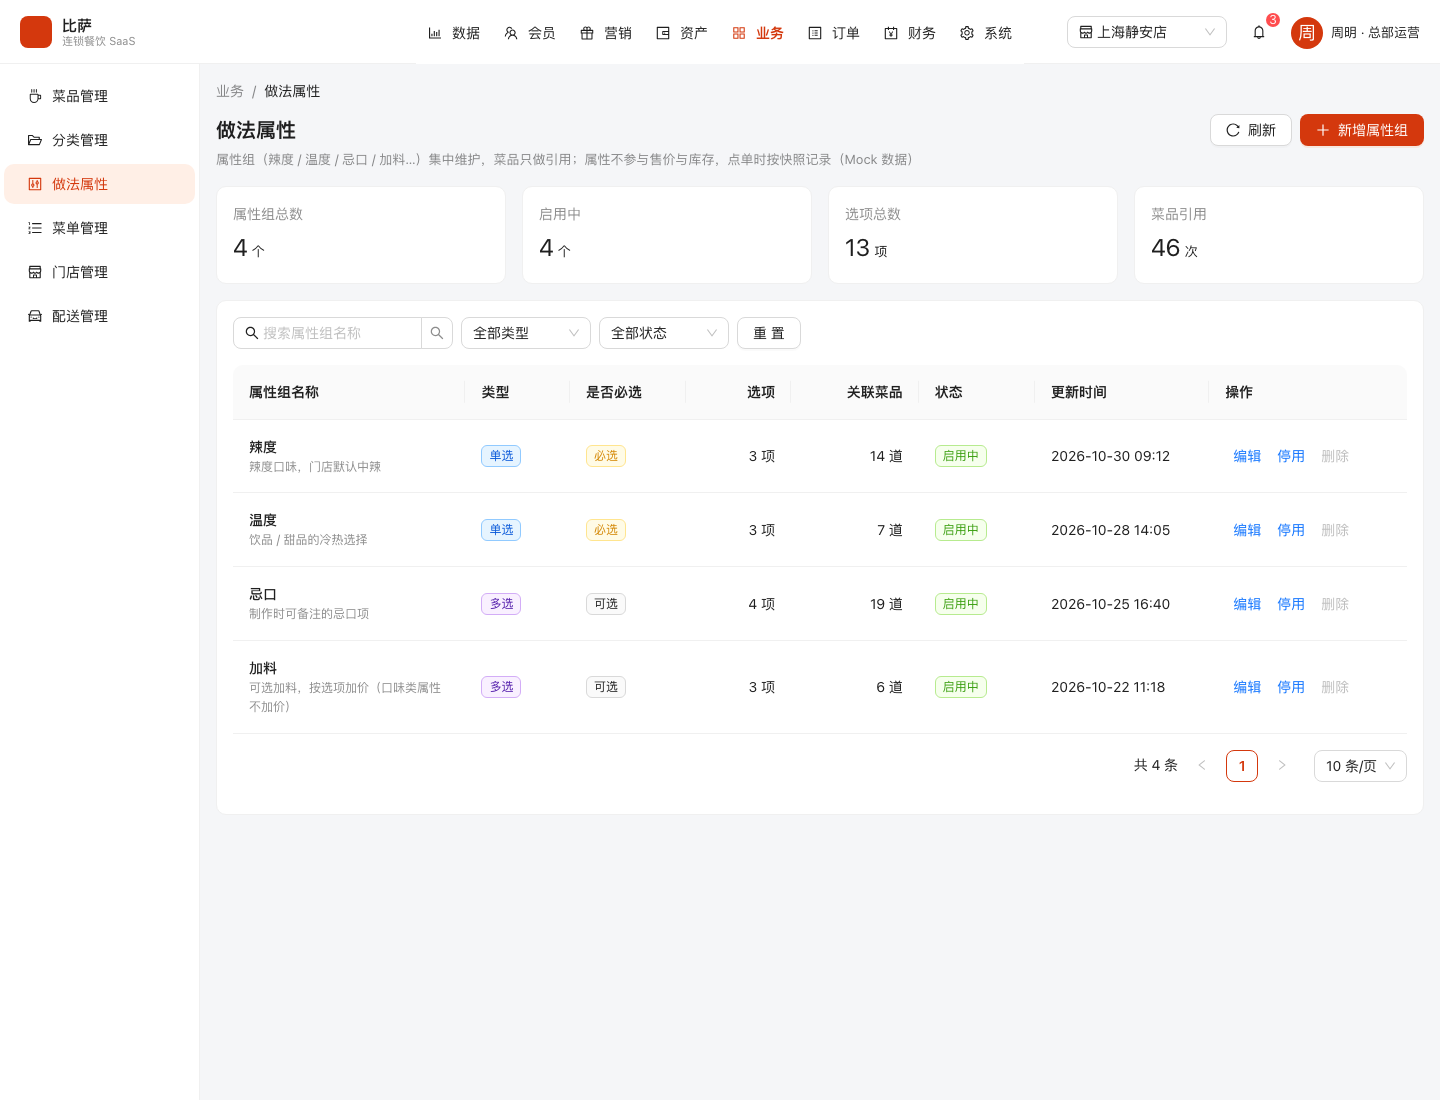
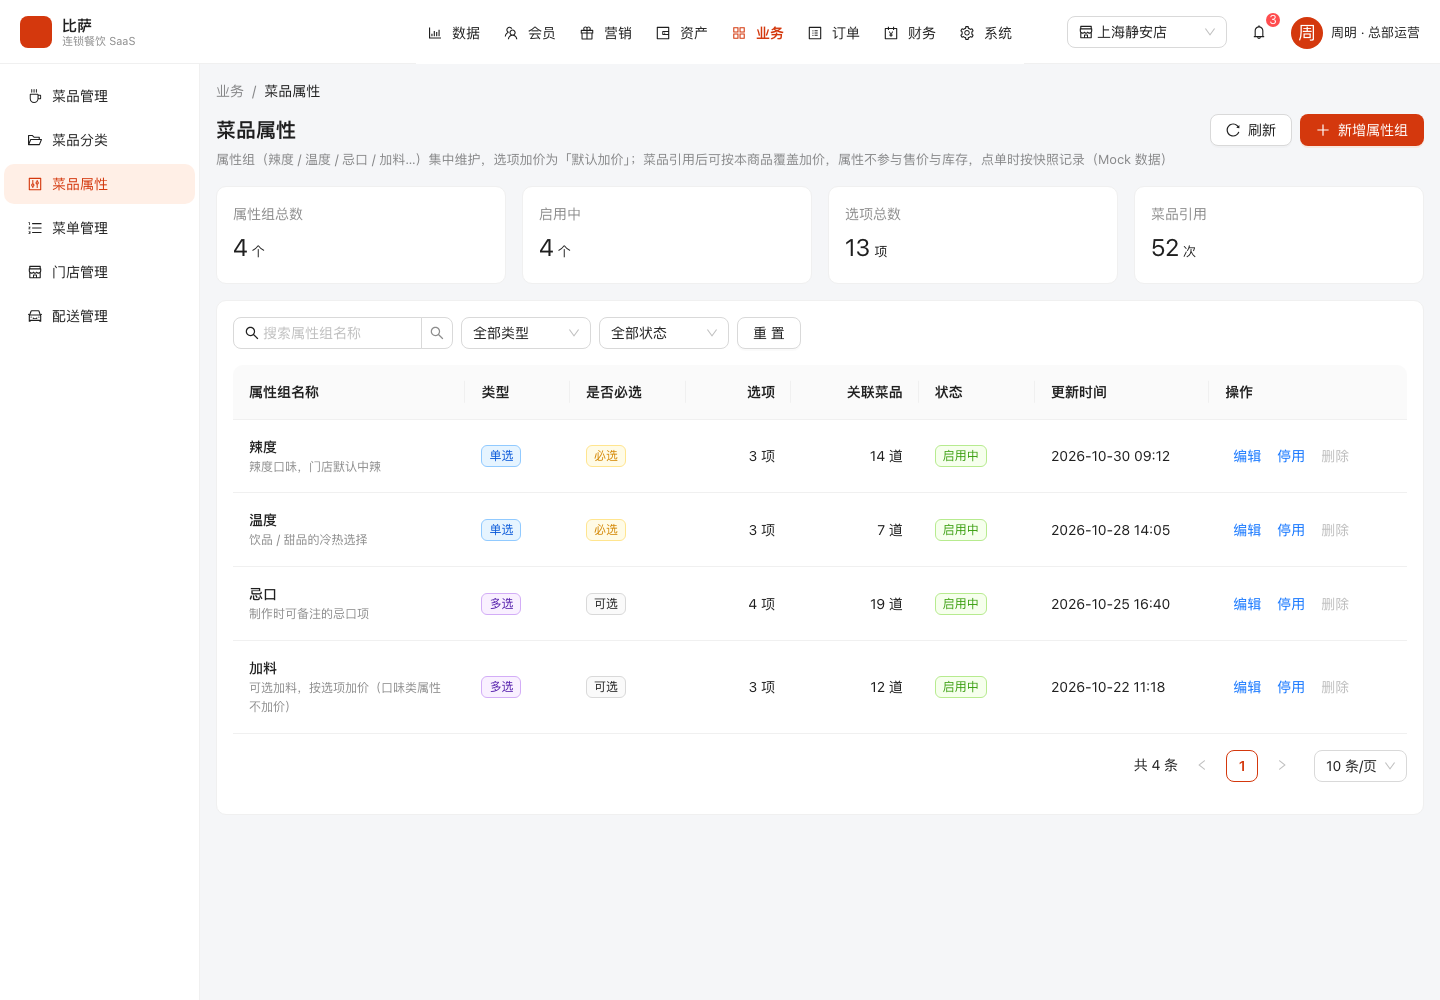
refactor: 业务菜单文案调整，「分类管理」→「菜品分类」、「做法属性」→「菜品属性」
- 导航与页面标题同步改名；面包屑、页面内引用文案、Mock/Service 注释一并更新
- README / PLAN / 06-dish.md 中的页面名引用同步（路由路径保持不变，避免破坏链接）
- 重新生成受侧栏影响的截图：business-stores / business-categories(-create) /
  business-attributes(-drawer) / dishes / dishes-drawer / dishes-offline-confirm
- 验证：tsc + vite build 通过、25/25 路由无头渲染正常

diff --git a/src/pages/Dishes/index.tsx b/src/pages/Dishes/index.tsx
@@ -642,12 +642,12 @@ export default function DishesPage() {
 
           <Form.Item
             label="口味 / 做法"
-            extra="在「业务 · 做法属性」统一维护；勾选后可按本商品覆盖选项加价（留空继承属性组默认价），点单时按订单快照记录，不参与售价与库存"
+            extra="在「业务 · 菜品属性」统一维护；勾选后可按本商品覆盖选项加价（留空继承属性组默认价），点单时按订单快照记录，不参与售价与库存"
             style={{ marginTop: 16 }}
           >
             {attributeGroups.length === 0 ? (
               <span style={{ color: 'var(--text-secondary)', fontSize: 13 }}>
-                还没有启用中的属性组，去「业务 · 做法属性」创建
+                还没有启用中的属性组，去「业务 · 菜品属性」创建
               </span>
             ) : (
               <Space direction="vertical" size={10} style={{ width: '100%' }}>

diff --git a/src/pages/Business/Attributes/index.tsx b/src/pages/Business/Attributes/index.tsx
@@ -61,7 +61,7 @@ interface AttributeFormValues {
   options: AttributeOptionFormValues[];
 }
 
-/** 做法属性：属性组（辣度 / 温度 / 忌口 / 加料…）的集中维护，菜品只做引用。 */
+/** 菜品属性：做法 / 口味属性组（辣度 / 温度 / 忌口 / 加料…）的集中维护，菜品只做引用。 */
 export default function AttributesPage() {
   const { message } = App.useApp();
   const [form] = Form.useForm<AttributeFormValues>();
@@ -295,7 +295,7 @@ export default function AttributesPage() {
     <div className="page">
       <div className="page-header">
         <div>
-          <h2>做法属性</h2>
+          <h2>菜品属性</h2>
           <p>
             属性组（辣度 / 温度 / 忌口 / 加料…）集中维护，选项加价为「默认加价」；菜品引用后可按本商品覆盖加价，属性不参与售价与库存，点单时按快照记录（Mock 数据）
           </p>

diff --git a/src/pages/Business/Categories/index.tsx b/src/pages/Business/Categories/index.tsx
@@ -48,7 +48,7 @@ interface CategoryFormValues {
   remark?: string;
 }
 
-/** 分类管理：菜品分类的新增、编辑、启停与删除（业务模块）。 */
+/** 菜品分类：分类的新增、编辑、启停与删除（业务模块）。 */
 export default function CategoriesPage() {
   const { message } = App.useApp();
   const [form] = Form.useForm<CategoryFormValues>();
@@ -256,7 +256,7 @@ export default function CategoriesPage() {
     <div className="page">
       <div className="page-header">
         <div>
-          <h2>分类管理</h2>
+          <h2>菜品分类</h2>
           <p>共 {data.total} 个菜品分类，支持按名称 / 编码 / 状态筛选；分类改名会同步更新菜品归属（Mock 数据）</p>
         </div>
         <Space>

diff --git a/src/services/dish.ts b/src/services/dish.ts
@@ -46,7 +46,7 @@ export async function fetchNextDishCode(): Promise<string> {
 
 export async function fetchCategories(): Promise<string[]> {
   await sleep(80);
-  // 与「业务 · 分类管理」保持一致：只返回启用中的分类（默认顺序即分类排序）
+  // 与「业务 · 菜品分类」保持一致：只返回启用中的分类（默认顺序即分类排序）
   const names = enabledCategoryNames();
   // 兼容历史数据：菜品上存在但分类表里没有的名称也一并返回，避免筛选漏项
   const extra = [...new Set(dishes.map((dish) => dish.category))].filter(

diff --git a/src/config/nav.tsx b/src/config/nav.tsx
@@ -161,13 +161,13 @@ export const modules: NavModule[] = [
       { path: '/business/dishes', label: '菜品管理', icon: <CoffeeOutlined />, component: DishesPage },
       {
         path: '/business/categories',
-        label: '分类管理',
+        label: '菜品分类',
         icon: <FolderOpenOutlined />,
         component: CategoriesPage,
       },
       {
         path: '/business/attributes',
-        label: '做法属性',
+        label: '菜品属性',
         icon: <ControlOutlined />,
         component: AttributesPage,
       },

diff --git a/src/mock/categories.ts b/src/mock/categories.ts
@@ -2,8 +2,8 @@ import { dishes } from './db';
 import { pad } from './util';
 
 /**
- * 业务 · 分类管理 Mock 数据（菜品分类）。
- * 分类名称直接取自现有菜品数据，保证「分类管理」与「菜品管理」口径一致；
+ * 业务 · 菜品分类 Mock 数据。
+ * 分类名称直接取自现有菜品数据，保证「菜品分类」与「菜品管理」口径一致；
  * 新增 / 编辑 / 停用 / 删除只改内存，刷新页面恢复初始数据。
  */
 

diff --git a/src/mock/attributes.ts b/src/mock/attributes.ts
@@ -7,8 +7,8 @@ import type {
 } from '../types';
 
 /**
- * 业务 · 做法属性 Mock 数据。
- * 属性组是可复用的基础数据：菜品（SPU）只引用属性组，「做法属性」页面统一维护。
+ * 业务 · 菜品属性 Mock 数据。
+ * 属性组是可复用的基础数据：菜品（SPU）只引用属性组，「菜品属性」页面统一维护。
  * 属性组不参与售价与库存，下单时按订单快照记录，不会生成 SKU。
  */
 

diff --git a/README.md b/README.md
@@ -38,7 +38,7 @@ src/
 │   ├── MemberTags/       # 标签管理
 │   ├── Marketing/        # 满减 / 满折 / 发券 / 自动化营销 / 消息通知
 │   ├── Assets/           # 卡券 / 积分 / 券包
-│   ├── Business/         # 菜品分类 / 做法属性 / 菜单 / 门店 / 配送
+│   ├── Business/         # 菜品分类 / 菜品属性 / 菜单 / 门店 / 配送
 │   ├── Finance/          # 交易流水 / 对账单
 │   ├── Dishes/           # 菜品管理
 │   ├── Orders/           # 订单查询
@@ -62,7 +62,7 @@ src/
 | 会员 | 会员信息（手机号/会员号查询）、等级配置（消费金额/频次升降级规则）、标签管理（ClickHouse 人群价值/行为/人口属性，手动+自动更新） |
 | 营销 | 满减活动、满折活动、发券活动、自动化营销（活动+人群标签+时间+渠道+通知方式）、消息通知 |
 | 资产 | 卡券管理、积分管理（规则/流水 Tab）、券包管理 |
-| 业务 | 菜品管理、分类管理、做法属性、菜单管理、门店管理、配送管理 |
+| 业务 | 菜品管理、菜品分类、菜品属性、菜单管理、门店管理、配送管理 |
 | 订单 | 订单查询、售后处理 |
 | 财务 | 交易流水、对账单（按月 × 门店，可下钻商品明细） |
 | 系统 | 岗位管理、人员管理、系统日志 |
@@ -104,9 +104,9 @@ src/
 11. 券包管理：券包组合、包含券、有效期、发行量。
 
 **业务**
-12. 菜品管理：**SPU + SKU 模型**（一个菜品可配多个规格，每个规格独立售价与库存，列表展示售价区间与库存合计）、商品编码、商品图（最多 6 张）、做法属性引用（可按本商品覆盖选项加价）、搜索名称 / 编码 / 分类 / 状态、库存 `-1` 表示无限库存（列表显示「不限」）、缺货与低库存预警、上下架开关（下架二次确认：不影响已生成订单、用户无法购买）、新增/编辑抽屉、删除。
-13. 分类管理：分类名称 / 编码 / 排序 / 状态 / 关联菜品数，新增、编辑（改名自动同步菜品归属）、启停、删除（分类下有菜品时禁止删除）；菜品表单的分类下拉与分类管理联动。
-14. 做法属性：属性组（辣度 / 温度 / 忌口 / 加料）集中维护——单选 / 多选、是否必选、默认项、选项**默认加价**；商品引用属性组时可对选项**重新设置加价**（A 商品 +3 元、B 商品 0 元），**不设置则取默认值**，显式设 0 表示本商品免费；被菜品引用后点单时选择，属性不参与售价与库存，按订单快照记录；支持增改、启停、删除（被菜品引用时禁止删除）。
+12. 菜品管理：**SPU + SKU 模型**（一个菜品可配多个规格，每个规格独立售价与库存，列表展示售价区间与库存合计）、商品编码、商品图（最多 6 张）、菜品属性引用（可按本商品覆盖选项加价）、搜索名称 / 编码 / 分类 / 状态、库存 `-1` 表示无限库存（列表显示「不限」）、缺货与低库存预警、上下架开关（下架二次确认：不影响已生成订单、用户无法购买）、新增/编辑抽屉、删除。
+13. 菜品分类：分类名称 / 编码 / 排序 / 状态 / 关联菜品数，新增、编辑（改名自动同步菜品归属）、启停、删除（分类下有菜品时禁止删除）；菜品表单的分类下拉与菜品分类联动。
+14. 菜品属性：做法 / 口味属性组（辣度 / 温度 / 忌口 / 加料）集中维护——单选 / 多选、是否必选、默认项、选项**默认加价**；商品引用属性组时可对选项**重新设置加价**（A 商品 +3 元、B 商品 0 元），**不设置则取默认值**，显式设 0 表示本商品免费；被菜品引用后点单时选择，属性不参与售价与库存，按订单快照记录；支持增改、启停、删除（被菜品引用时禁止删除）。
 15. 菜单管理：菜单名称、所属门店、菜品数量、生效时段；详情抽屉展示菜品清单。
 16. 门店管理：门店编号/城市/地址/店长/营业时间/营业状态、增改删。
 17. 配送管理：配送范围/起送价/配送费/预计时长 + 配送概览统计。
@@ -126,7 +126,7 @@ src/
 
 ## 团队协作
 
-25 个页面由 Lead + 4 个智能体队员并行完成：营销 5 页、资产 3 页、业务 3 页、售后+系统 4 页各自独立目录与 Mock/Service 层；后加的财务 2 页（交易流水、对账单）、业务·分类管理、业务·做法属性和菜品 SPU/SKU 改造由 Lead 直接实现。Lead 负责数据/会员/财务模块、导航与公共约定、集成与验收（`tsc`、`vite build`、路由无头渲染检查、截图）。
+25 个页面由 Lead + 4 个智能体队员并行完成：营销 5 页、资产 3 页、业务 3 页、售后+系统 4 页各自独立目录与 Mock/Service 层；后加的财务 2 页（交易流水、对账单）、业务·菜品分类、业务·菜品属性和菜品 SPU/SKU 改造由 Lead 直接实现。Lead 负责数据/会员/财务模块、导航与公共约定、集成与验收（`tsc`、`vite build`、路由无头渲染检查、截图）。
 
 ## 接口契约文档（给后端）
 

diff --git a/docs/api/06-dish.md b/docs/api/06-dish.md
@@ -21,7 +21,7 @@
 
 **前端数据流**：`页面 → src/services/dish.ts → src/mock/db.ts` 的 `dishes` 内存数组。真实后端只需替换 service 层实现，页面无需改动。
 
-**本期未建模**（`Dish` 类型中不存在，不纳入本期契约）：门店级价格与上下架、点单时的属性选择快照、销量写入（`sales` 只读）。分类字典 CRUD 见「业务 · 分类管理」页面、做法属性组 CRUD 见「业务 · 做法属性」页面（两者接口契约待补）。
+**本期未建模**（`Dish` 类型中不存在，不纳入本期契约）：门店级价格与上下架、点单时的属性选择快照、销量写入（`sales` 只读）。分类字典 CRUD 见「业务 · 菜品分类」页面、做法属性组 CRUD 见「业务 · 菜品属性」页面（两者接口契约待补）。
 
 > 数据模型为 **SPU + SKU**：`Dish` 是 SPU（菜品），`skus` 是规格（SKU）；SPU 的 `price`（最低 SKU 价）与 `stock`（SKU 库存合计）由 SKU 汇总推导。
 > **库存特殊值**：`stock = -1` 表示**无限库存（不限量，随便买）**；SKU 与 SPU 都适用，只要任一 SKU 为 `-1`，SPU 的 `stock` 即为 `-1`。
@@ -50,7 +50,7 @@
 
 ### 3.2 菜品分类（`category`）
 
-`category` 为字符串（非固定枚举），选项来自「业务 · 分类管理」（仅启用中的分类，按分类排序值返回）。当前 Mock 共 8 个分类：
+`category` 为字符串（非固定枚举），选项来自「业务 · 菜品分类」（仅启用中的分类，按分类排序值返回）。当前 Mock 共 8 个分类：
 
 | 序号 | 分类 |
 | --- | --- |
@@ -63,7 +63,7 @@
 | 7 | 凉菜 |
 | 8 | 套餐 |
 
-> 后端须保证新增/编辑菜品时 `category` 存在于分类字典（分类管理）中；停用的分类不会出现在下拉选项里。
+> 后端须保证新增/编辑菜品时 `category` 存在于分类字典（菜品分类）中；停用的分类不会出现在下拉选项里。
 
 ### 3.3 Dish 字段字典
 
@@ -102,7 +102,7 @@
 
 ### 3.6 做法属性绑定与加价规则
 
-属性组由「业务 · 做法属性」统一维护。**属性选项在属性组里设置一个默认加价**（`extraPrice`，`0` 表示不加价），**商品关联属性组时允许重新设置本商品加价，不设置则取默认值**。
+属性组由「业务 · 菜品属性」统一维护。**属性选项在属性组里设置一个默认加价**（`extraPrice`，`0` 表示不加价），**商品关联属性组时允许重新设置本商品加价，不设置则取默认值**。
 
 **价格设置规则（重点）**
 
@@ -223,8 +223,8 @@
 ```
 
 - **业务规则**：
-  - 取「分类管理」中启用状态的分类，按排序值升序返回；停用分类不返回；
-  - 分类的新增 / 改名 / 停用由「业务 · 分类管理」维护（接口契约待补）；
+  - 取「菜品分类」中启用状态的分类，按排序值升序返回；停用分类不返回；
+  - 分类的新增 / 改名 / 停用由「业务 · 菜品分类」维护（接口契约待补）；
   - 选项不分页、不做门店过滤。
 - **错误**：`40100`；`50000`。
 
@@ -391,9 +391,9 @@
 | 库存 | 静态字段，下单不扣减；SPU 库存为 SKU 合计；`-1` 表示无限库存 | 需 SKU 级订单扣减 + 库存流水，缺货拦截下单；`-1`（不限量）不参与扣减 |
 | 规格（SKU） | Mock 内置 1~2 个 SKU（固定规则生成），无 SKU 级上下架 | 建议 SKU 级价格 / 库存 / 条码，可独立上下架 |
 | 商品图 | 内联 SVG 占位，dataURL 只存内存 | 对象存储 + CDN，接口返回 URL，限制 ≤ 6 张 |
-| 做法属性 | 属性组独立维护，菜品存绑定（可覆盖选项加价 / 隐藏选项）；未实现点单 | 点单时选择并按订单快照（groupName + labels + 实际加价），不生成 SKU、不扣库存 |
+| 菜品属性（做法 / 口味） | 属性组独立维护，菜品存绑定（可覆盖选项加价 / 隐藏选项）；未实现点单 | 点单时选择并按订单快照（groupName + labels + 实际加价），不生成 SKU、不扣库存 |
 | 商品编码 | 种子数据唯一，Mock 保存时校验重复 | 全局唯一索引，支持商家自定义编码 |
-| 分类 | 分类管理页面维护（Mock 内存） | 独立分类字典 + CRUD |
+| 分类 | 菜品分类页面维护（Mock 内存） | 独立分类字典 + CRUD |
 | 门店维度 | 未隔离，共享字典 | 视业务扩展门店菜品关系 |
 | 权限 | 无鉴权 | `Authorization` + 门店数据权限 |
 

diff --git a/PLAN.md b/PLAN.md
@@ -40,7 +40,7 @@
 - [x] 会员：会员信息、等级配置、标签管理（ClickHouse 自动标签）
 - [x] 营销：满减活动、满折活动、发券活动、自动化营销、消息通知
 - [x] 资产：卡券管理、积分管理（规则/流水）、券包管理
-- [x] 业务：菜品管理（SPU+SKU）、分类管理、做法属性（默认加价 + 商品级覆盖）、菜单管理、门店管理、配送管理
+- [x] 业务：菜品管理（SPU+SKU）、菜品分类、菜品属性（默认加价 + 商品级覆盖）、菜单管理、门店管理、配送管理
 - [x] 订单：订单查询、售后处理
 - [x] 财务：交易流水（收款/退款/充值/提现，近 30 天 + 今日汇总）、对账单（按月 × 门店，商品维度明细，待核对确认）
 - [x] 系统：岗位管理、人员管理、系统日志
